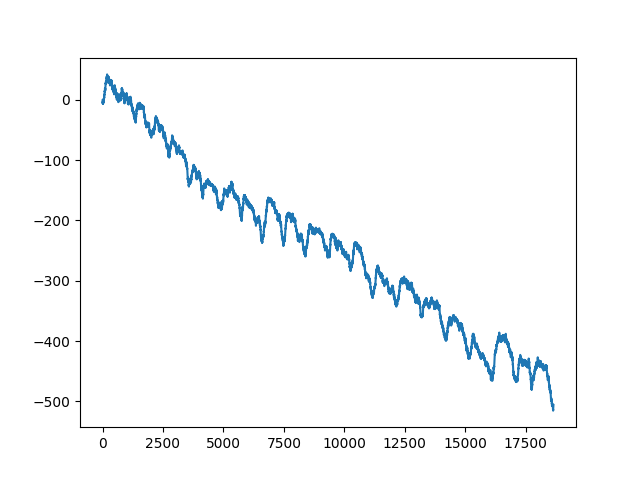
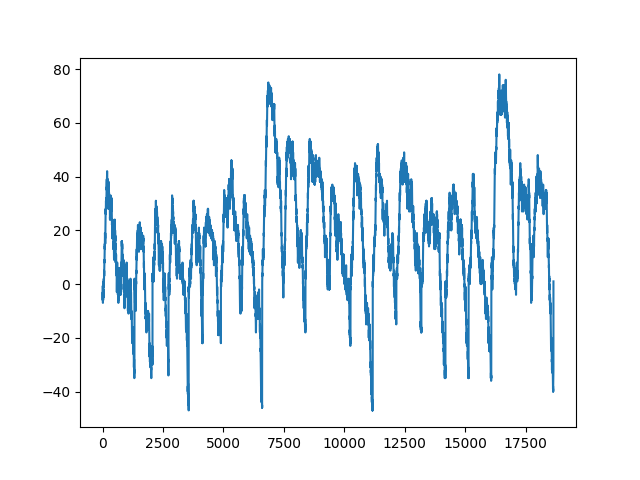
plots all days in month individually and all days for given time range

diff --git a/exploration.py b/exploration.py
@@ -6,11 +6,8 @@ df = df[['ended_at', 'started_at', 'start_station_id', 'end_station_id']]
 df['ended_at'] = pd.to_datetime(df['ended_at'])
 df['started_at'] = pd.to_datetime(df['started_at'])
 #df['weekday'] = df['started_at'].dt.weekday
-print(len(df.index))
 df = df[(df['started_at'].dt.weekday != 5) & (df['started_at'].dt.weekday != 6)]
-print(len(df.index))
 df = df[(df['start_station_id'] == 5980.07) | (df['end_station_id'] == 5980.07)]
-print(len(df.index))
 
 df_start = df[df['start_station_id'] == 5980.07]
 df_end = df[df['end_station_id'] == 5980.07]
@@ -21,12 +18,55 @@ df_end['time'] = df_end['ended_at']
 df_start = df_start[['result', 'time']]
 df_end = df_end[['result', 'time']]
 df_all = pd.concat([df_start, df_end])
-print(len(df_all.index))
 
 df_all = df_all.sort_values(by=['time'])
-results = df_all['result']
-x = [sum(results[:i+1]) for i in range(len(results))]
+results = df_all['result'].tolist()
+times = df_all['time'].tolist()
+current_day = ''
+min_index = 0
+x = []
+x_dict = {}
+print(results)
+for i in range(len(results)):
+    if times[i].day != current_day:
+        if current_day != '':
+            x_dict[current_day]['range'] = max(x_dict[current_day]['counts']) - min(x_dict[current_day]['counts'])
+            plt.figure()
+            plt.plot(times[min_index:i], x[min_index:i])
+            plt.savefig('Figures/Days/day' + str(current_day))
+        current_day = times[i].day
+        min_index = i
+        x_dict[current_day] = {'counts': [], 'times': [], 'events': [], 'range': 0}
+    x_dict[current_day]['counts'].append(sum(results[min_index:i+1]))
+    x_dict[current_day]['events'].append(results[i])
+    x_dict[current_day]['times'].append(times[i])
+    x.append(sum(results[min_index:i+1]))
+print([x_dict[key]['range'] for key in x_dict])
 plt.figure()
-plt.plot(x)
-plt.savefig('results')
+plt.plot(times,x)
+plt.savefig('results2')
 
+def plot_everyday(start_hour, end_hour, data_dict):
+    plt.figure()
+    for key in data_dict:
+        x = []
+        y = []
+        for i in range(len(data_dict[key]['times'])):
+            if data_dict[key]['times'][i].hour >= start_hour and data_dict[key]['times'][i].hour < end_hour:
+                x.append(data_dict[key]['times'][i].hour + data_dict[key]['times'][i].minute / 60)
+                y.append(data_dict[key]['counts'][i])
+        plt.plot(x, y)
+    plt.xlabel('Time (hours)')
+    plt.ylabel('Relative capacity (0 at 00 hrs)')
+    plt.savefig('Figures/Days/everyday' + str(start_hour) + '-' + str(end_hour))
+
+'''
+def get_activity(x_dict, time_interval, start_hour, end_hour):
+    activity = []
+    for current_interval in range(start_hour, end_hour, time_interval):
+        activity.append(sum([x_dict[key]['counts'][i] for key in x_dict for i in range(len(x_dict[key]['counts'])) if x_dict[key]['times'][i].hour == current_interval]))
+'''
+# plot_everyday(6, 10, x_dict)
+# plot_everyday(6, 11, x_dict)
+# plot_everyday(12, 20, x_dict)
+plot_everyday(17, 23, x_dict)
